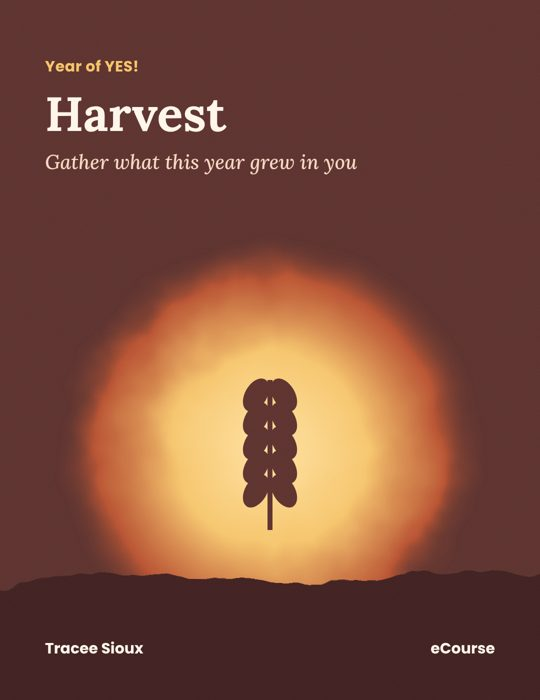
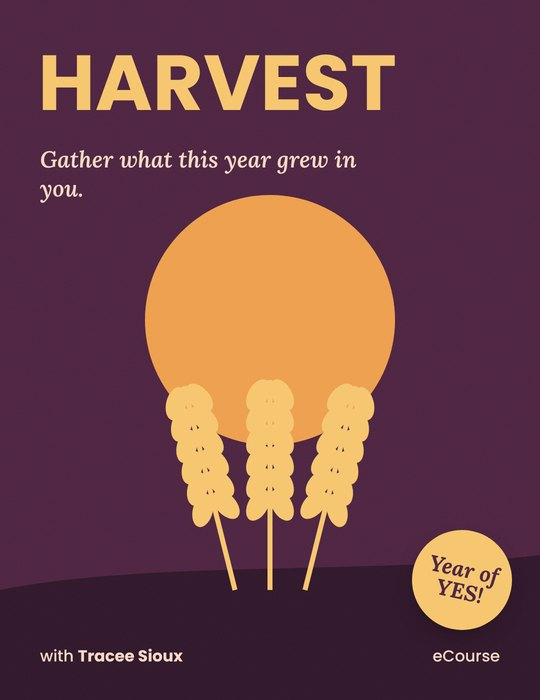
Bold poster-style course covers built to sell
Claude-Session: https://claude.ai/code/session_019NFS6vszHiQaKtaK6VNZJB

diff --git a/studio/covers.py b/studio/covers.py
@@ -1,58 +1,129 @@
-"""Year of YES! course covers in the sunrise palette. Usage: python3 covers.py out_dir"""
-import asyncio, pathlib, sys, html
+"""Year of YES! course covers: one bold poster per course, built to sell.
+Usage: python3 covers.py out_dir
+"""
+import asyncio, pathlib, sys
 from playwright.async_api import async_playwright
 
-LORA = pathlib.Path("/usr/share/fonts/truetype/google-fonts/Lora-Variable.ttf").as_uri()
-LORA_I = pathlib.Path("/usr/share/fonts/truetype/google-fonts/Lora-Italic-Variable.ttf").as_uri()
+F = "/usr/share/fonts/truetype/google-fonts/"
+FONTS = f"""
+@font-face {{ font-family: Lora; src: url('{pathlib.Path(F+'Lora-Variable.ttf').as_uri()}'); font-weight: 400 700; }}
+@font-face {{ font-family: Lora; src: url('{pathlib.Path(F+'Lora-Italic-Variable.ttf').as_uri()}'); font-style: italic; font-weight: 400 700; }}
+@font-face {{ font-family: Poppins; src: url('{pathlib.Path(F+'Poppins-Bold.ttf').as_uri()}'); font-weight: 700; }}
+@font-face {{ font-family: Poppins; src: url('{pathlib.Path(F+'Poppins-Medium.ttf').as_uri()}'); font-weight: 500; }}
+"""
+BASE = FONTS + """
+*{margin:0;box-sizing:border-box} body{width:1080px;height:1400px;overflow:hidden}
+.c{position:relative;width:1080px;height:1400px;overflow:hidden;font-family:Poppins,sans-serif}
+.art{position:absolute;inset:0}
+.badge{position:absolute;right:56px;top:56px;width:200px;height:200px;border-radius:50%;display:grid;place-items:center;transform:rotate(12deg);
+  font:italic 700 44px/1 Lora,serif;text-align:center;box-shadow:0 18px 40px -18px rgba(0,0,0,.5)}
+.promise{position:absolute;left:80px;right:80px;font:italic 600 46px/1.25 Lora,serif}
+.foot{position:absolute;left:80px;right:80px;bottom:64px;display:flex;justify-content:space-between;align-items:center;font:500 32px Poppins}
+.foot b{font-weight:700}
+.grain{position:absolute;inset:0;pointer-events:none}
+"""
+GRAIN = """<svg class="grain" viewBox="0 0 1080 1400"><filter id="g"><feTurbulence type="fractalNoise" baseFrequency="0.85" numOctaves="2" seed="4"/>
+<feColorMatrix values="0 0 0 0 1 0 0 0 0 1 0 0 0 0 1 0 0 0 .07 0"/><feComposite in2="SourceGraphic" operator="in"/></filter><rect width="1080" height="1400" filter="url(#g)"/></svg>"""
 
-COURSES = [
-    ("soul-conomics", "Soul-Conomics", "Money and your Soul", "7 classes", 3, "coin"),
-    ("soul-vs-ego", "Soul vs Ego Smackdown", "Hearing your Soul over the noise", "5 classes", 5, "two"),
-    ("time-joygasm", "Time Joy-gasm", "Experiencing your time as pleasure", "7 classes", 9, "clock"),
-    ("psychic-spring-clean", "Psychic Spring Clean", "Clear what no longer belongs to you", "5 classes", 13, "leaf"),
-    ("joy-roi", "Joy R.O.I.", "Spend your life where the joy returns", "Worksheet", 17, "spiral"),
-    ("harvest", "Harvest", "Gather what this year grew in you", "eCourse", 21, "wheat"),
-    ("meditations", "Guided Meditations", "Six recordings for releasing and returning", "Audio", 25, "moon"),
-]
 
-ICONS = {
-    "coin": '<circle cx="540" cy="900" r="150" fill="none" stroke="#5a2e2a" stroke-width="14"/><circle cx="540" cy="900" r="100" fill="none" stroke="#5a2e2a" stroke-width="6" opacity=".7"/>',
-    "two": '<circle cx="470" cy="900" r="130" fill="none" stroke="#5a2e2a" stroke-width="12"/><circle cx="610" cy="900" r="130" fill="none" stroke="#c8562f" stroke-width="12"/>',
-    "clock": '<circle cx="540" cy="900" r="150" fill="none" stroke="#5a2e2a" stroke-width="12"/><path d="M540 900 V800 M540 900 L620 950" stroke="#5a2e2a" stroke-width="12" stroke-linecap="round"/>',
-    "leaf": '<path d="M540 760 C680 820 690 980 540 1060 C390 980 400 820 540 760Z M540 790 V1050" fill="none" stroke="#5a2e2a" stroke-width="12" stroke-linejoin="round"/>',
-    "spiral": '<path d="M540 900 m0 0 a20 20 0 1 1 40 0 a60 60 0 1 1 -120 0 a100 100 0 1 1 200 0 a140 140 0 1 1 -280 0" fill="none" stroke="#5a2e2a" stroke-width="10" stroke-linecap="round"/>',
-    "wheat": '<path d="M540 1060 V760" stroke="#5a2e2a" stroke-width="10"/>' + "".join(f'<ellipse cx="{540+s*28}" cy="{790+i*48}" rx="22" ry="36" transform="rotate({s*-30} {540+s*28} {790+i*48})" fill="#5a2e2a"/>' for i in range(5) for s in (-1, 1)),
-    "moon": '<path d="M600 760 A150 150 0 1 0 600 1040 A115 115 0 1 1 600 760Z" fill="#5a2e2a"/>',
-}
+def badge(bg, fg, pos='top:56px'):
+    return f'<div class="badge" style="{pos};background:{bg};color:{fg}">Year of<br>YES!</div>'
 
-def page(title, sub, kind, seed, icon):
-    e = html.escape
-    return f"""<!doctype html><html><head><meta charset="utf-8"><style>
-@font-face {{ font-family: Lora; src: url('{LORA}'); font-weight: 400 700; }}
-@font-face {{ font-family: Lora; src: url('{LORA_I}'); font-style: italic; font-weight: 400 700; }}
-*{{margin:0;box-sizing:border-box}} body{{width:1080px;height:1400px;overflow:hidden;font-family:Poppins,sans-serif}}
-.c{{position:relative;width:1080px;height:1400px;background:#5a2e2a;overflow:hidden}} svg{{position:absolute;inset:0}}
-.t{{position:absolute;left:90px;right:90px;top:110px;color:#fff6ea}}
-.brand{{font:700 30px Poppins;letter-spacing:.02em;color:#f6c56b}}
-h1{{font:700 {96 if len(title) < 16 else 80}px/1.02 Lora,serif;margin-top:22px}}
-.sub{{font:italic 500 40px/1.3 Lora,serif;color:#f7d9c4;margin-top:22px;max-width:820px}}
-.foot{{position:absolute;left:90px;right:90px;bottom:80px;display:flex;justify-content:space-between;color:#fff6ea;font:600 30px Poppins}}
-</style></head><body><div class="c"><svg viewBox="0 0 1080 1400">
-<defs><filter id="w" x="-10%" y="-10%" width="120%" height="120%"><feTurbulence type="fractalNoise" baseFrequency="0.009" numOctaves="3" seed="{seed}"/><feDisplacementMap in="SourceGraphic" scale="44"/></filter>
-<filter id="g"><feTurbulence type="fractalNoise" baseFrequency="0.85" numOctaves="2" seed="4"/><feColorMatrix values="0 0 0 0 1 0 0 0 0 1 0 0 0 0 1 0 0 0 .07 0"/><feComposite in2="SourceGraphic" operator="in"/></filter>
-<radialGradient id="s" cx="50%" cy="50%" r="50%"><stop offset="0" stop-color="#ffe2a3"/><stop offset=".45" stop-color="#f6c56b"/><stop offset=".8" stop-color="#c8562f" stop-opacity=".85"/><stop offset="1" stop-color="#5a2e2a" stop-opacity="0"/></radialGradient></defs>
-<g filter="url(#w)"><circle cx="540" cy="900" r="430" fill="url(#s)"/><path d="M-60 1180 C260 1120 620 1190 1140 1130 V1460 H-60Z" fill="#3d1f1c"/></g>
-{ICONS[icon]}<rect width="1080" height="1400" filter="url(#g)"/></svg>
-<div class="t"><div class="brand">Year of YES!</div><h1>{e(title)}</h1><div class="sub">{e(sub)}</div></div>
-<div class="foot"><span>Tracee Sioux</span><span>{e(kind)}</span></div></div></body></html>"""
+
+def foot(color, fmt):
+    return f'<div class="foot" style="color:{color}"><span>with <b>Tracee Sioux</b></span><span>{fmt}</span></div>'
+
+
+def smackdown():
+    return f"""<div class="c" style="background:#1d1b2e">
+<svg class="art" viewBox="0 0 1080 1400"><polygon points="0,0 640,0 440,1400 0,1400" fill="#f6c56b"/><polygon points="640,0 1080,0 1080,1400 440,1400" fill="#c8302f"/>
+<g opacity=".18" fill="#fff">{''.join(f'<polygon points="540,820 {540+900*__import__("math").cos(a/12*6.283)},{820+900*__import__("math").sin(a/12*6.283)} {540+900*__import__("math").cos((a+.35)/12*6.283)},{820+900*__import__("math").sin((a+.35)/12*6.283)}"/>' for a in range(12))}</g>
+<circle cx="540" cy="820" r="140" fill="#1d1b2e"/><text x="540" y="862" text-anchor="middle" font-family="Poppins" font-weight="700" font-size="120" fill="#fff">VS</text></svg>
+<div style="position:absolute;left:70px;top:330px;font:700 170px/0.9 Poppins;color:#1d1b2e">SOUL</div>
+<div style="position:absolute;right:70px;top:960px;font:700 170px/0.9 Poppins;color:#fff;text-align:right">EGO</div>
+<div style="position:absolute;left:-20px;right:-20px;top:1130px;background:#1d1b2e;color:#f6c56b;transform:rotate(-4deg);padding:18px 0;text-align:center;font:700 92px/1 Poppins;letter-spacing:.04em">SMACKDOWN</div>
+<div class="promise" style="top:90px;color:#1d1b2e;right:300px">Learn which voice is talking, and which one to trust.</div>
+{badge('#fff','#c8302f')}{foot('#fff','5 rounds of video')}{GRAIN}</div>"""
+
+
+def joygasm():
+    rays = ''.join(f'<rect x="535" y="380" width="10" height="120" rx="5" fill="#f6c56b" transform="rotate({i*30} 540 700)"/>' for i in range(12))
+    return f"""<div class="c" style="background:#e5457a">
+<svg class="art" viewBox="0 0 1080 1400"><circle cx="540" cy="700" r="430" fill="#f2668f"/>{rays}
+<circle cx="540" cy="700" r="240" fill="#fff4e2"/><path d="M540 700 V560 M540 700 L640 760" stroke="#e5457a" stroke-width="22" stroke-linecap="round"/>
+<circle cx="540" cy="700" r="16" fill="#e5457a"/></svg>
+<div style="position:absolute;left:80px;top:96px;font:italic 700 96px/1 Lora,serif;color:#fff4e2">Time</div>
+<div style="position:absolute;left:70px;top:190px;font:700 150px/0.92 Poppins;color:#f6c56b;letter-spacing:-.01em">JOY-GASM</div>
+<div class="promise" style="top:1000px;color:#fff4e2;text-align:center">Stop managing your time.<br>Start enjoying it.</div>
+{badge('#f6c56b','#5a2e2a','top:auto;bottom:140px')}{foot('#fff4e2','7 video classes')}{GRAIN}</div>"""
+
+
+def soulconomics():
+    return f"""<div class="c" style="background:#0f4f3f">
+<svg class="art" viewBox="0 0 1080 1400"><circle cx="540" cy="760" r="330" fill="#d9a441"/><circle cx="540" cy="760" r="290" fill="none" stroke="#f6d68a" stroke-width="10"/>
+<path d="M540 910 C430 830 390 760 430 700 C460 655 520 660 540 705 C560 660 620 655 650 700 C690 760 650 830 540 910Z" fill="#0f4f3f"/>
+<path d="M540 1090 V1240 M540 1170 C600 1140 640 1150 660 1110 C610 1100 570 1120 540 1170 M540 1200 C480 1170 440 1180 420 1140 C470 1130 510 1150 540 1200" stroke="#7fd1a8" stroke-width="10" fill="#7fd1a8"/></svg>
+<div style="position:absolute;left:76px;top:96px;font:700 128px/0.95 Poppins;color:#f6d68a">SOUL-<br>CONOMICS</div>
+<div class="promise" style="top:380px;color:#e8f5ee;right:120px">Make money in a way that feels like you.</div>
+{badge('#f6d68a','#0f4f3f','top:auto;bottom:140px')}{foot('#e8f5ee','7 classes')}{GRAIN}</div>"""
+
+
+def springclean():
+    sparkle = lambda x, y, s: f'<path d="M{x} {y-s} Q{x} {y} {x+s} {y} Q{x} {y} {x} {y+s} Q{x} {y} {x-s} {y} Q{x} {y} {x} {y-s}Z" fill="#fff"/>'
+    return f"""<div class="c" style="background:#bfe8d6">
+<svg class="art" viewBox="0 0 1080 1400"><rect x="250" y="520" width="580" height="620" rx="14" fill="#7cc6f0"/><circle cx="660" cy="680" r="80" fill="#fff3b0"/>
+<path d="M250 1000 C400 940 560 1010 830 960 V1140 H250Z" fill="#7fc79a"/>
+<rect x="250" y="520" width="580" height="620" rx="14" fill="none" stroke="#134f53" stroke-width="22"/><path d="M540 520 V1140 M250 830 H830" stroke="#134f53" stroke-width="14"/>
+<path d="M230 500 C120 700 190 900 110 1140 L250 1140 L250 500Z" fill="#f28fa0"/><path d="M850 500 C980 640 900 900 990 1100 L830 1140 L830 500Z" fill="#f28fa0"/>
+{sparkle(180,430,40)}{sparkle(910,420,30)}{sparkle(960,1230,36)}{sparkle(140,1250,26)}</svg>
+<div style="position:absolute;left:76px;top:96px;font:700 100px/0.98 Poppins;color:#134f53">PSYCHIC<br>SPRING CLEAN</div>
+<div class="promise" style="top:1160px;color:#134f53;right:320px">Clear out the energy that isn't yours.</div>
+{badge('#134f53','#fff','top:auto;bottom:140px')}{foot('#134f53','5 video classes').replace('bottom:64px','bottom:40px')}{GRAIN}</div>"""
+
+
+def joyroi():
+    return f"""<div class="c" style="background:#ffc93c">
+<svg class="art" viewBox="0 0 1080 1400"><path d="M120 1080 H960 M120 1080 V560" stroke="#1f2a5a" stroke-width="12" stroke-linecap="round"/>
+<path d="M140 1020 L330 940 L480 970 L660 800 L800 720" fill="none" stroke="#e5457a" stroke-width="22" stroke-linecap="round" stroke-linejoin="round"/>
+<circle cx="860" cy="660" r="96" fill="#fff4e2" stroke="#1f2a5a" stroke-width="12"/><path d="M820 680 Q860 720 900 680" fill="none" stroke="#1f2a5a" stroke-width="12" stroke-linecap="round"/>
+<circle cx="830" cy="640" r="10" fill="#1f2a5a"/><circle cx="890" cy="640" r="10" fill="#1f2a5a"/></svg>
+<div style="position:absolute;left:76px;top:96px;font:700 176px/0.9 Poppins;color:#1f2a5a">JOY<br>R.O.I.</div>
+<div class="promise" style="top:1140px;color:#1f2a5a">Put your hours where the joy comes back.</div>
+{badge('#1f2a5a','#ffc93c')}{foot('#1f2a5a','Workbook').replace('bottom:64px','bottom:40px')}{GRAIN}</div>"""
+
+
+def harvest():
+    stalk = lambda x, r: f'<g transform="rotate({r} {x} 1180)"><path d="M{x} 1180 V760" stroke="#f6c56b" stroke-width="10"/>' + ''.join(f'<ellipse cx="{x+s*24}" cy="{790+i*44}" rx="20" ry="34" transform="rotate({s*-28} {x+s*24} {790+i*44})" fill="#f6c56b"/>' for i in range(6) for s in (-1, 1)) + '</g>'
+    return f"""<div class="c" style="background:#4a1f3d">
+<svg class="art" viewBox="0 0 1080 1400"><circle cx="540" cy="640" r="250" fill="#e9893a"/><circle cx="540" cy="640" r="250" fill="#f6c56b" opacity=".35"/>
+<path d="M0 1180 C300 1120 760 1150 1080 1110 V1400 H0Z" fill="#2c1226"/>{stalk(470,-14)}{stalk(540,0)}{stalk(610,14)}</svg>
+<div style="position:absolute;left:76px;top:96px;font:700 156px/0.9 Poppins;color:#f6c56b">HARVEST</div>
+<div class="promise" style="top:290px;color:#f7d9c4;right:300px">Gather what this year grew in you.</div>
+{badge('#f6c56b','#4a1f3d','top:auto;bottom:140px')}{foot('#f7d9c4','eCourse')}{GRAIN}</div>"""
+
+
+def meditations():
+    stars = ''.join(f'<circle cx="{x}" cy="{y}" r="{r}" fill="#fff"/>' for x, y, r in [(150,520,4),(260,700,3),(880,520,5),(960,800,3),(820,940,4),(200,980,3),(700,460,3),(400,430,2)])
+    return f"""<div class="c" style="background:#2b2a6b">
+<svg class="art" viewBox="0 0 1080 1400"><circle cx="540" cy="760" r="320" fill="#3d3b8e"/>{stars}
+<path d="M620 520 A250 250 0 1 0 620 1000 A190 190 0 1 1 620 520Z" fill="#e6d7ff"/></svg>
+<div style="position:absolute;left:76px;top:96px;font:italic 700 104px/1 Lora,serif;color:#e6d7ff">Come home<br>to yourself</div>
+<div class="promise" style="top:1130px;color:#fff;font-style:normal;font-family:Poppins;font-weight:500;font-size:40px">Six guided meditations for releasing, completing and remembering you matter.</div>
+{badge('#e6d7ff','#2b2a6b')}{foot('#e6d7ff','Audio').replace('bottom:64px','bottom:40px')}{GRAIN}</div>"""
+
+
+COVERS = {"soul-vs-ego": smackdown, "time-joygasm": joygasm, "soul-conomics": soulconomics, "psychic-spring-clean": springclean,
+          "joy-roi": joyroi, "harvest": harvest, "meditations": meditations}
+
 
 async def main(out):
     out = pathlib.Path(out); out.mkdir(parents=True, exist_ok=True)
     async with async_playwright() as p:
         b = await p.chromium.launch(); pg = await b.new_page(viewport={"width": 1080, "height": 1400})
-        for slug, title, sub, kind, seed, icon in COURSES:
-            await pg.set_content(page(title, sub, kind, seed, icon)); await pg.wait_for_timeout(250)
-            await pg.screenshot(path=str(out / f"{slug}.png"), type="png")
+        for slug, fn in COVERS.items():
+            await pg.set_content(f"<!doctype html><html><head><meta charset='utf-8'><style>{BASE}</style></head><body>{fn()}</body></html>")
+            await pg.wait_for_timeout(300)
+            await pg.screenshot(path=str(out / f"{slug}.png"))
             print("made", slug)
         await b.close()
 
